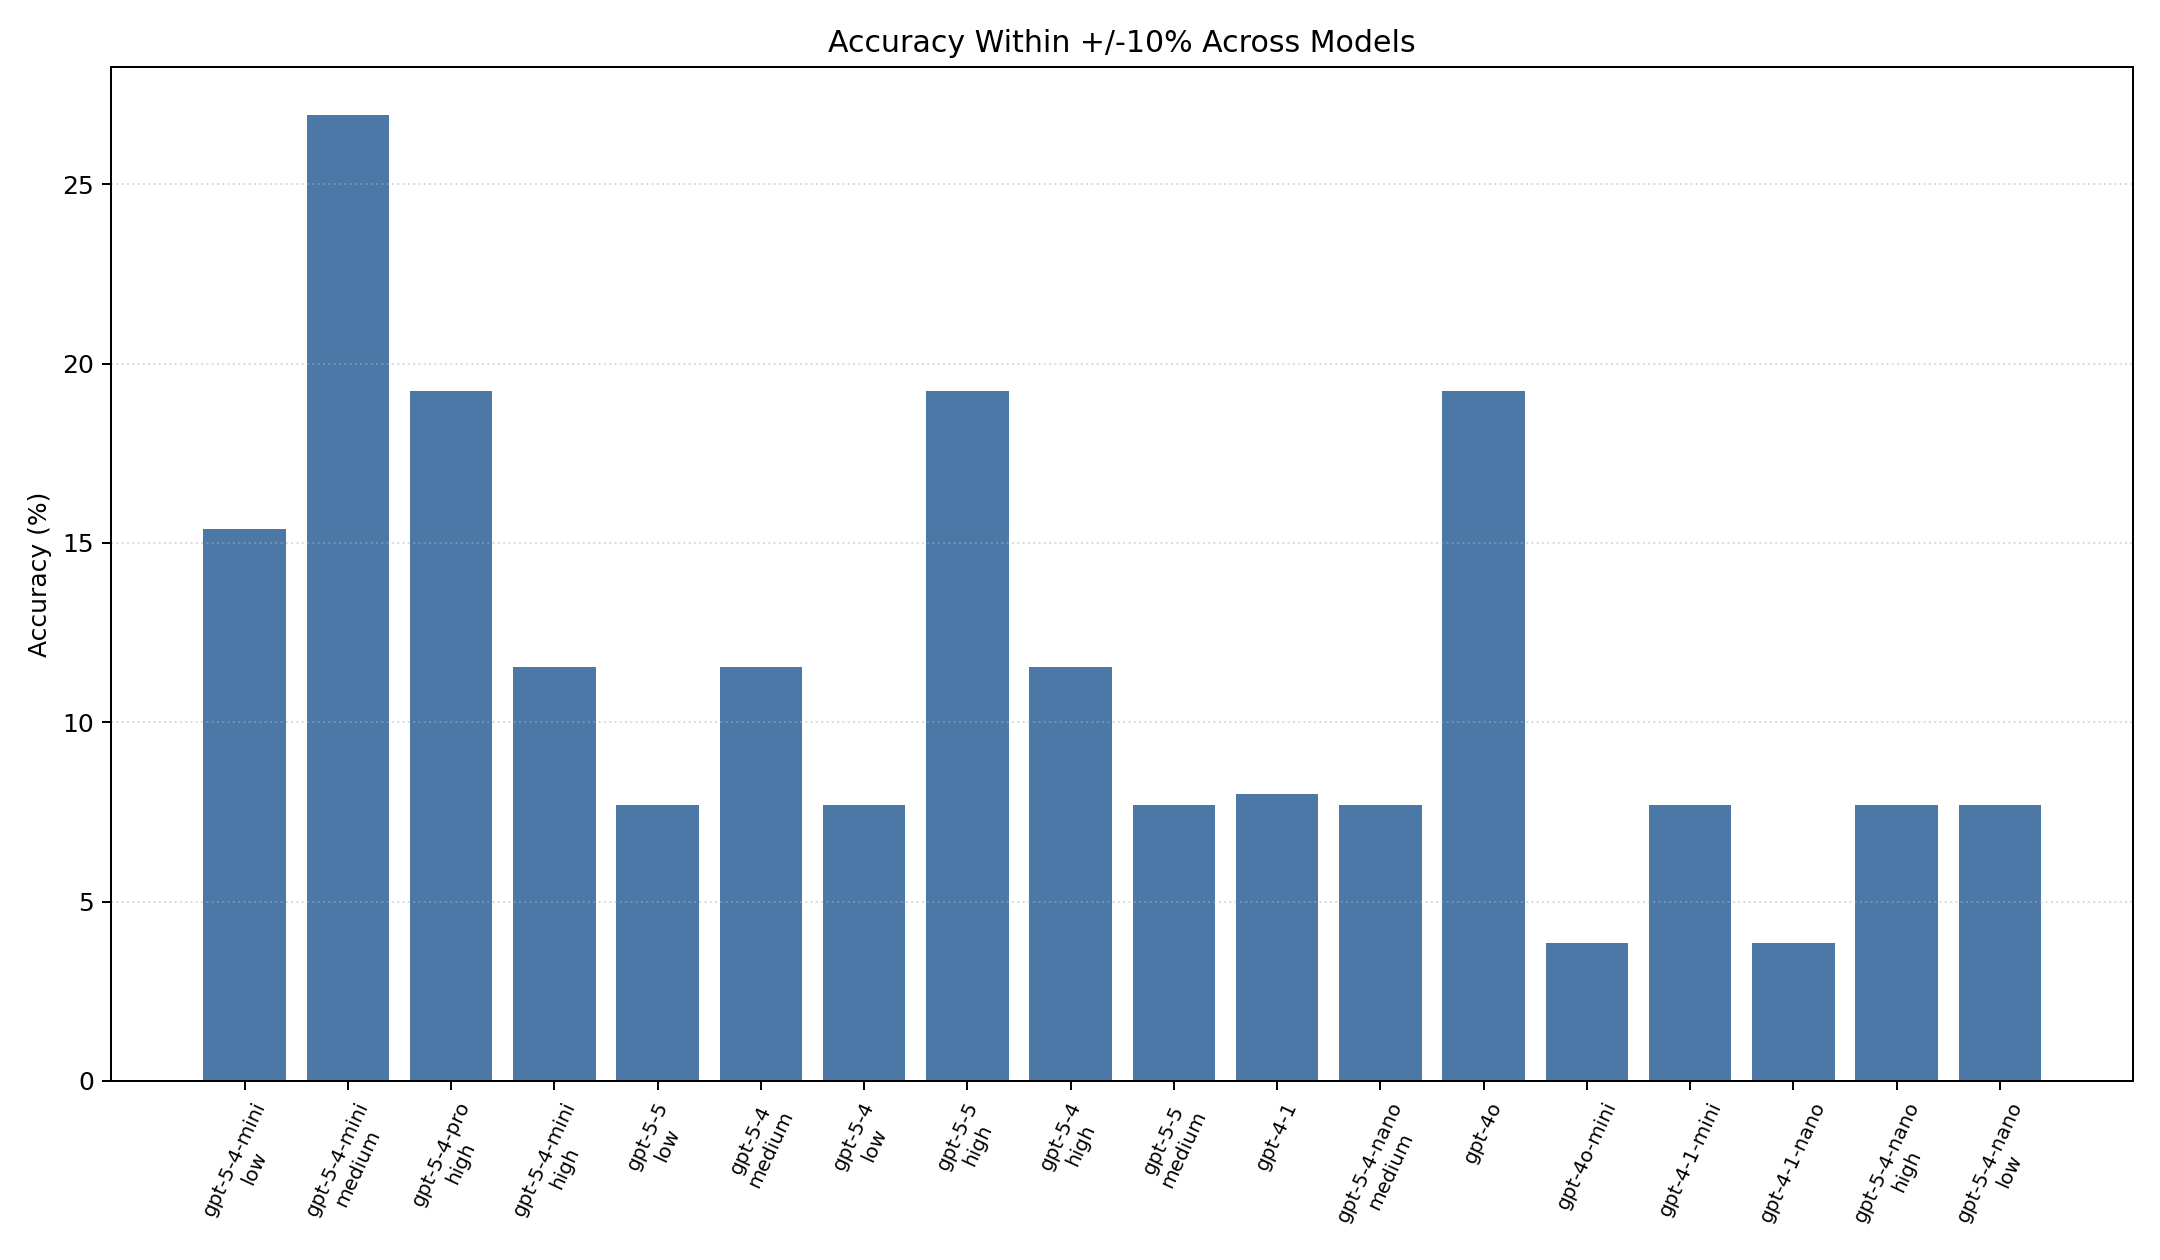
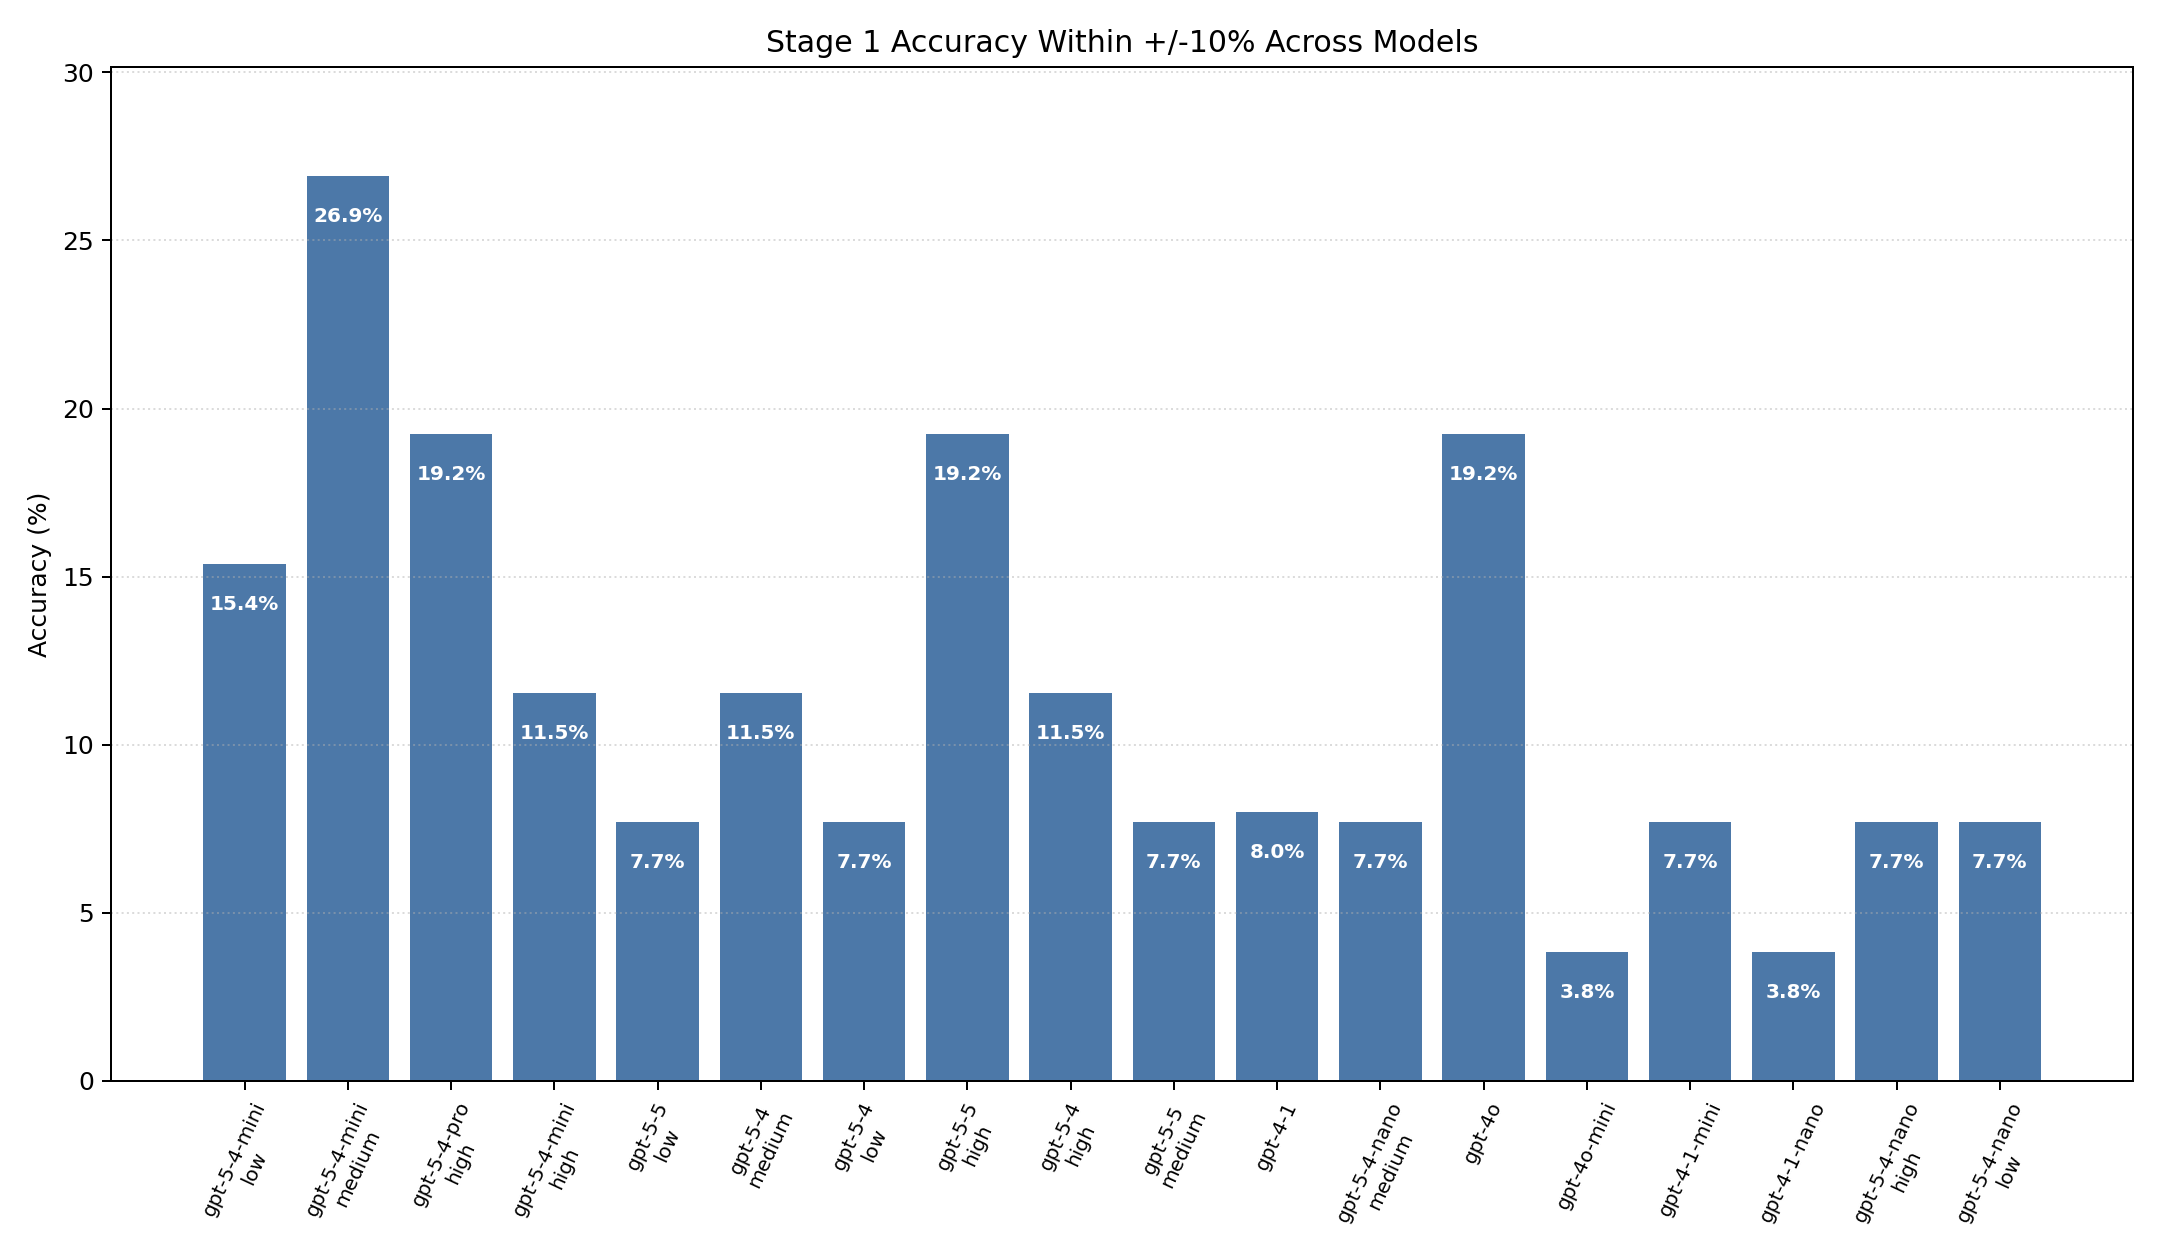
update

diff --git a/stage1_recipe_proportions/evaluate_model_outputs.py b/stage1_recipe_proportions/evaluate_model_outputs.py
@@ -455,11 +455,25 @@ def plot_overall_bar(
 
     fig_width = max(12, len(valid_rows) * 0.55)
     fig, ax = plt.subplots(figsize=(fig_width, 7))
-    ax.bar(labels, values, color="#4C78A8")
+    bars = ax.bar(labels, values, color="#4C78A8", edgecolor="none")
     ax.set_title(title)
     ax.set_ylabel(ylabel)
     ax.tick_params(axis="x", labelrotation=65, labelsize=8)
     ax.grid(axis="y", linestyle=":", alpha=0.45)
+    y_max = max(values) * 1.12 if values else 1.0
+    ax.set_ylim(0, y_max)
+    value_format = "{:.1f}%" if value_key == "accuracy_percent" else "{:.3f}"
+    for bar, value in zip(bars, values):
+        ax.text(
+            bar.get_x() + bar.get_width() / 2,
+            max(value - y_max * 0.04, value * 0.5),
+            value_format.format(value),
+            ha="center",
+            va="center",
+            color="white",
+            fontsize=8,
+            fontweight="bold",
+        )
     fig.tight_layout()
     fig.savefig(output_path, dpi=180)
     plt.close(fig)
@@ -502,18 +516,55 @@ def plot_reasoning_effect(rows: list[dict[str, Any]], output_path: Path) -> None
             if "gpt_5" in base_model:
                 grouped[base_model].append(row)
 
-    fig, ax = plt.subplots(figsize=(9, 5.5))
-    for base_model, model_rows in sorted(grouped.items()):
-        sorted_rows = sorted(model_rows, key=lambda row: effort_order[row["reasoning_level"]])
-        ax.plot(
-            [row["reasoning_level"] for row in sorted_rows],
-            [row["MAE"] for row in sorted_rows],
-            marker="o",
+    efforts = ["low", "medium", "high"]
+    model_names = sorted(grouped)
+    x_positions = list(range(len(efforts)))
+    bar_width = min(0.16, 0.82 / max(len(model_names), 1))
+    center_offset = (len(model_names) - 1) * bar_width / 2
+    colors = ["#1f77b4", "#ff7f0e", "#2ca02c", "#d62728", "#9467bd", "#8c564b"]
+    values_by_key = {
+        (base_model, row["reasoning_level"]): float(row["MAE"])
+        for base_model, model_rows in grouped.items()
+        for row in model_rows
+    }
+    y_max = max(values_by_key.values()) * 1.12 if values_by_key else 1.0
+
+    fig, ax = plt.subplots(figsize=(10.5, 6))
+    for model_index, base_model in enumerate(model_names):
+        bar_x = [
+            position - center_offset + model_index * bar_width
+            for position in x_positions
+        ]
+        bar_values = [
+            values_by_key.get((base_model, effort), 0.0)
+            for effort in efforts
+        ]
+        bars = ax.bar(
+            bar_x,
+            bar_values,
+            width=bar_width,
+            color=colors[model_index % len(colors)],
+            edgecolor="none",
             label=short_model_label(base_model),
         )
-    ax.set_title("GPT-5 Reasoning Effort Effect")
+        for bar, value in zip(bars, bar_values):
+            if value <= 0:
+                continue
+            ax.text(
+                bar.get_x() + bar.get_width() / 2,
+                max(value - y_max * 0.035, value * 0.5),
+                f"{value:.3f}",
+                ha="center",
+                va="center",
+                color="white",
+                fontsize=8,
+                fontweight="bold",
+            )
+    ax.set_title("Stage 1 GPT-5 Reasoning Effort Effect")
     ax.set_xlabel("Reasoning effort")
     ax.set_ylabel("MAE")
+    ax.set_xticks(x_positions, efforts)
+    ax.set_ylim(0, y_max)
     ax.grid(axis="y", linestyle=":", alpha=0.45)
     ax.legend(fontsize=8)
     fig.tight_layout()
@@ -536,7 +587,7 @@ def write_plots(
     plot_overall_bar(
         overall_rows,
         "accuracy_percent",
-        "Accuracy Within +/-10% Across Models",
+        "Stage 1 Accuracy Within +/-10% Across Models",
         "Accuracy (%)",
         results_dir / "accuracy_comparison.png",
     )

diff --git a/stage1.5_clustering_analysis/analyze_clusters.py b/stage1.5_clustering_analysis/analyze_clusters.py
@@ -1189,6 +1189,10 @@ def generate_visualizations(rows: list[dict[str, Any]], analysis: list[dict[str,
             return f'Cluster {row["cluster_id"]}\n{wrapped}'
 
         labels = [cluster_label(row) for row in analysis]
+        label_by_cluster_id = {
+            int(row["cluster_id"]): cluster_label(row)
+            for row in analysis
+        }
         avg_abs = [float(row["avg_absolute_error"]) for row in analysis]
         sizes = [int(row["cluster_size"]) for row in analysis]
         rel = [float(row["avg_relative_error_percent"]) for row in analysis]
@@ -1239,7 +1243,7 @@ def generate_visualizations(rows: list[dict[str, Any]], analysis: list[dict[str,
         plt.close()
 
         fig, ax = plt.subplots(figsize=(9, 5.5))
-        size_labels = [f'Cluster {row["cluster_id"]}' for row in analysis]
+        size_labels = [cluster_label(row) for row in analysis]
         bars = ax.bar(size_labels, sizes, color=bar_colors)
         total = sum(sizes) or 1
         ax.set_title("Cluster Sizes", pad=14)
@@ -1269,7 +1273,7 @@ def generate_visualizations(rows: list[dict[str, Any]], analysis: list[dict[str,
                 y_values,
                 s=32,
                 alpha=0.78,
-                label=f"Cluster {cluster_id}",
+                label=label_by_cluster_id[cluster_id].replace("\n", ": ", 1),
                 color=cluster_colors[cluster_id],
                 edgecolors="white",
                 linewidths=0.4,
@@ -1290,7 +1294,7 @@ def generate_visualizations(rows: list[dict[str, Any]], analysis: list[dict[str,
         fig, ax = plt.subplots(figsize=(10, 6.5))
         box = ax.boxplot(
             box_data,
-            tick_labels=[f"Cluster {cluster_id}" for cluster_id in clusters],
+            tick_labels=[label_by_cluster_id[cluster_id] for cluster_id in clusters],
             patch_artist=True,
             showfliers=False,
         )
@@ -1314,6 +1318,7 @@ def generate_visualizations(rows: list[dict[str, Any]], analysis: list[dict[str,
         ax.set_xlabel("Cluster")
         ax.set_ylabel("Absolute error (mg, log scale)")
         ax.grid(axis="y", which="both", alpha=0.25)
+        ax.tick_params(axis="x", labelsize=10)
         fig.tight_layout()
         plt.savefig(vis_dir / "error_distribution_by_cluster.png", dpi=180)
         plt.close()
@@ -1347,7 +1352,7 @@ def generate_visualizations(rows: list[dict[str, Any]], analysis: list[dict[str,
         plt.colorbar(image, ax=ax, label="Average absolute error (mg)")
         ax.set_title("Average Absolute Error by Cluster and Recipe Type", pad=14)
         ax.set_xticks(range(len(recipe_types)), recipe_types, rotation=30, ha="right")
-        ax.set_yticks(range(len(clusters)), [f"Cluster {cluster_id}" for cluster_id in clusters])
+        ax.set_yticks(range(len(clusters)), [label_by_cluster_id[cluster_id] for cluster_id in clusters])
         ax.set_xlabel("Recipe type")
         ax.set_ylabel("Cluster")
         for row_index, annotation_row in enumerate(annotations):
